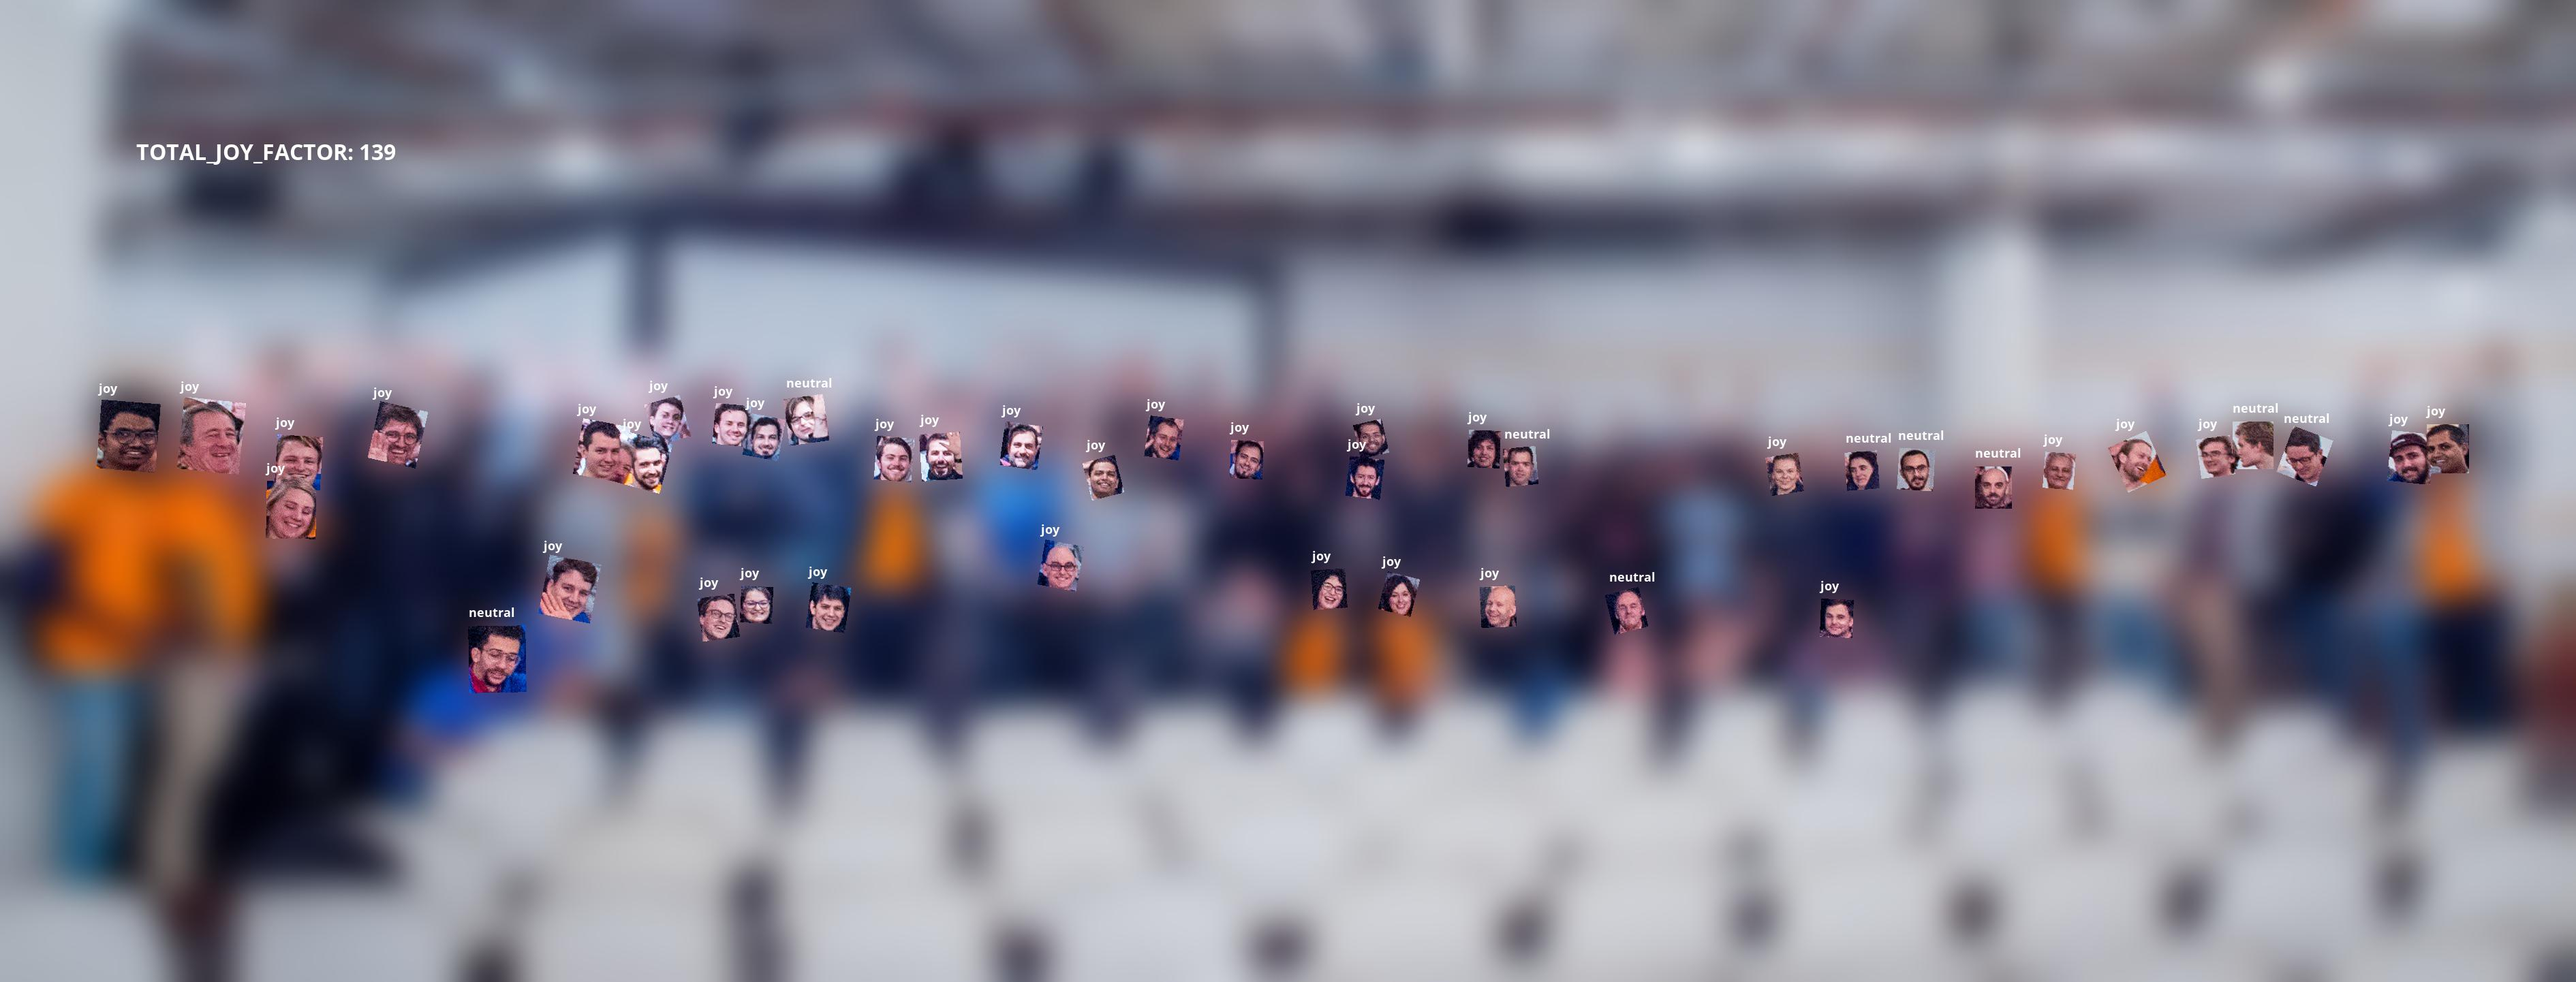
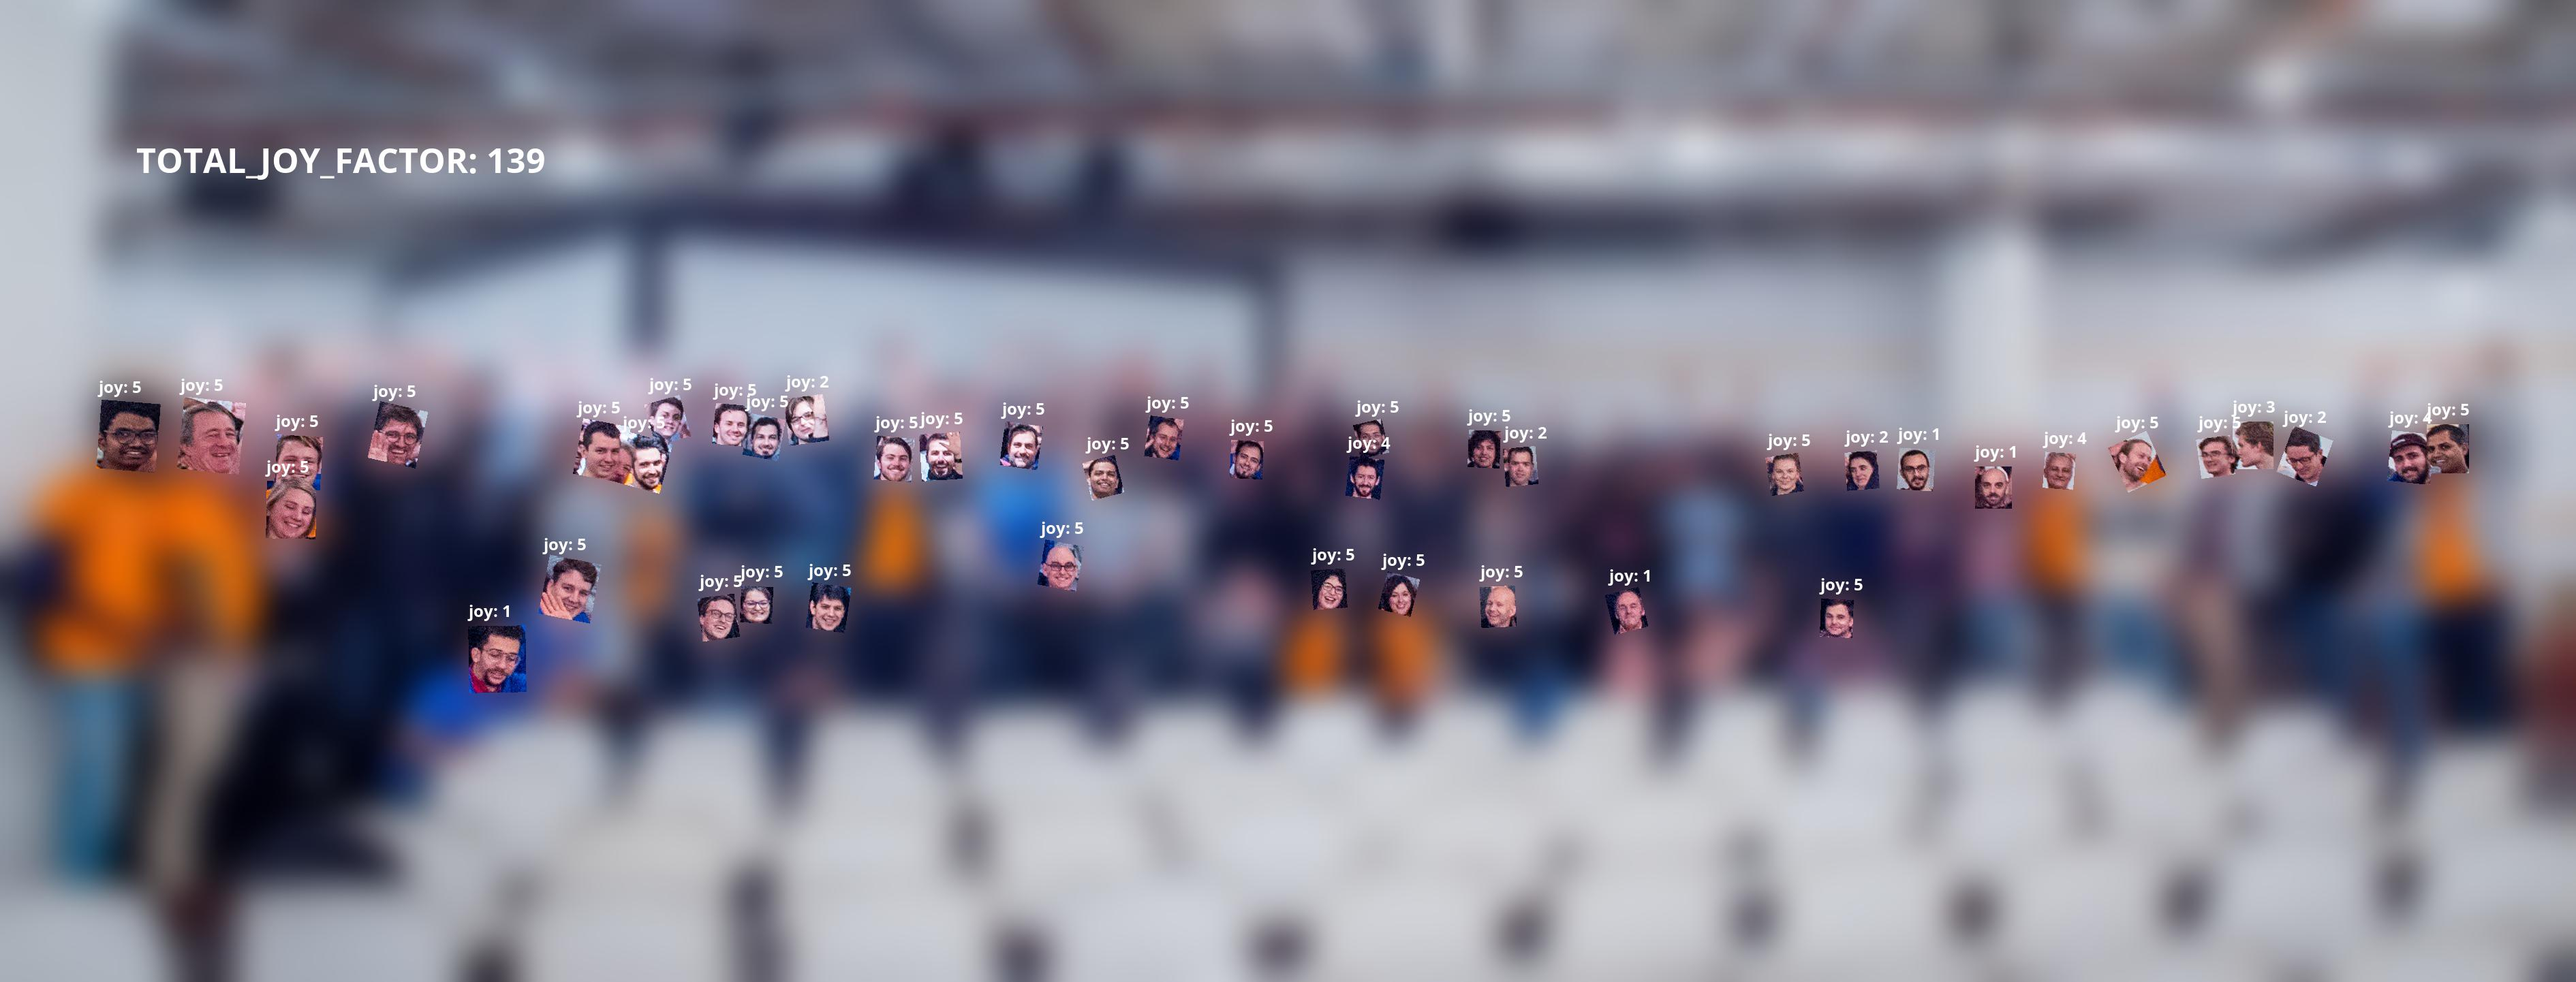
show joyfulness above each face

diff --git a/faces.py b/faces.py
@@ -6,9 +6,9 @@ from google.cloud import vision
 
 client = vision.ImageAnnotatorClient()
 
-fontSize = 18
+fontSize = 24
 font = ImageFont.truetype("fonts/OpenSans-Bold.ttf", fontSize)
-fontTitle = ImageFont.truetype("fonts/OpenSans-Bold.ttf", 32)
+fontTitle = ImageFont.truetype("fonts/OpenSans-Bold.ttf", 50)
 
 def joyous_faces(path):
     """
@@ -32,6 +32,7 @@ def extract_faces(mode, path):
 
     process_img = Image.open(path)
     source_img = process_img.convert('RGBA')
+    process_img = process_img.convert('RGB')
     draw = ImageDraw.Draw(process_img)
     blur_img = source_img.filter(ImageFilter.GaussianBlur(25)).convert('RGBA')
     if mode=='pop':
@@ -72,17 +73,17 @@ def extract_faces(mode, path):
                 output_img.paste(region, (v[0].x - offset[0]/2, v[0].y - offset[1]/2), region)
 
             total_joy += face.joy_likelihood - face.anger_likelihood
-            if (face.joy_likelihood > 3):
-                expression = 'joy'
-            elif (face.sorrow_likelihood > 3):
-                expression = 'sorrow'
-            elif (face.anger_likelihood > 3):
-                expression = 'anger'
-            elif (face.surprise_likelihood > 3):
-                expression = 'surprise'
-            else:
-                expression = 'neutral'
+            expression = ('neutral', 0)
+            if (face.joy_likelihood > expression[1]):
+                expression = ('joy', face.joy_likelihood)
+            if (face.sorrow_likelihood > expression[1]):
+                expression = ('sorrow', face.sorrow_likelihood)
+            if (face.anger_likelihood > expression[1]):
+                expression = ('anger', face.anger_likelihood)
+            if (face.surprise_likelihood > expression[1]):
+                expression = ('surprise', face.surprise_likelihood)
 
+            expression = ('%s: %d' % (expression[0], expression[1]))
             expressions.append((box, expression))
 
             if mode=='pop':
